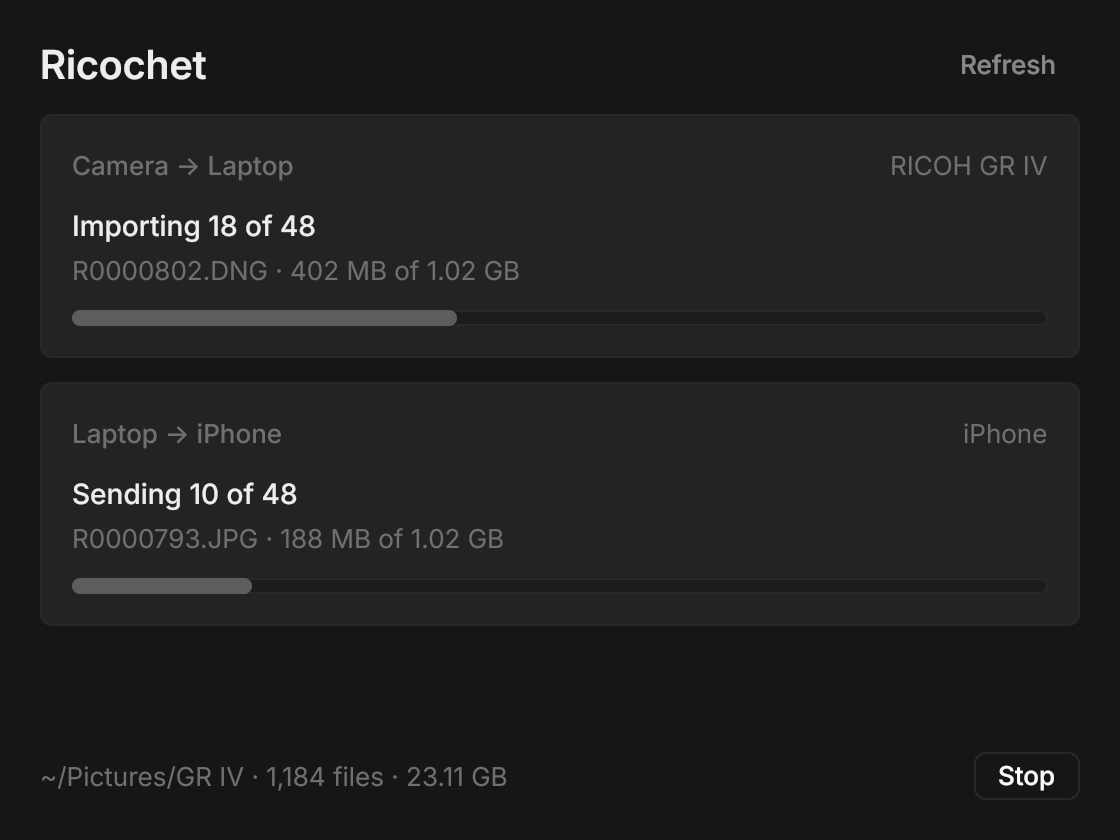
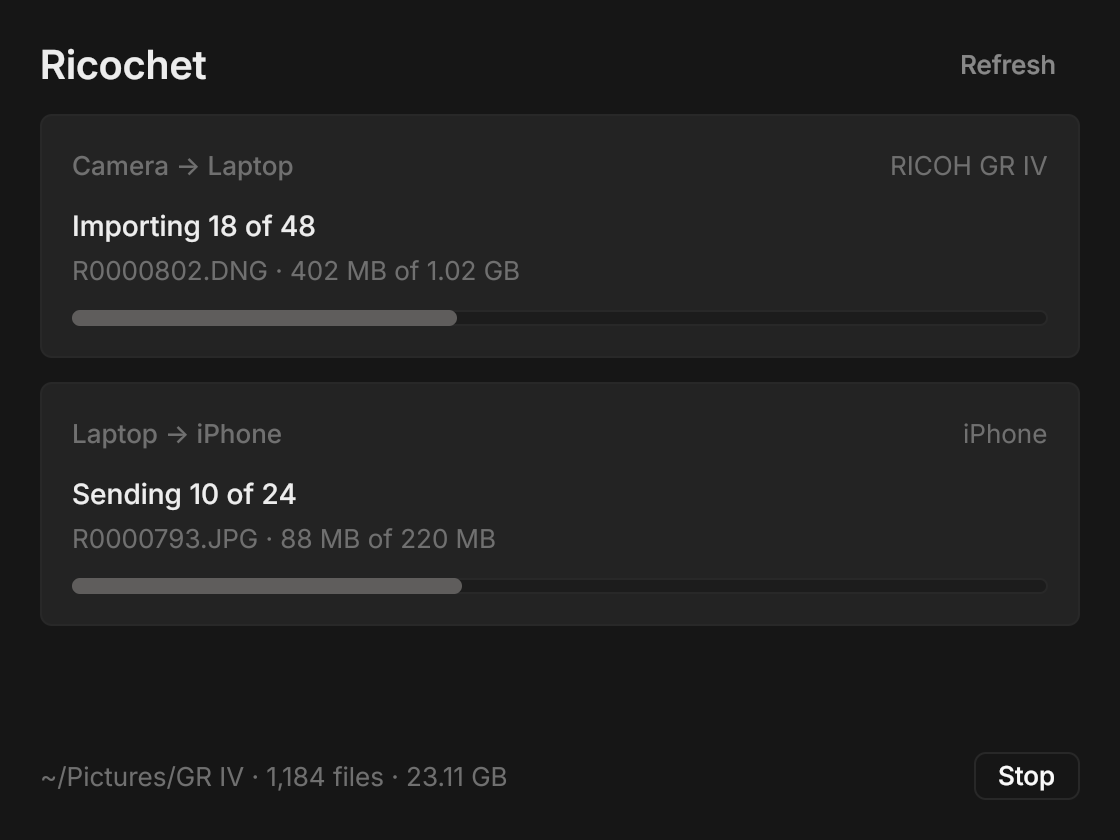
Keep RAW files off the phone
Syncs sent every RAW file to the phone, about 32 MB each against 10
for a JPEG, and they filled it up. On the phone the JPEGs are saved
to Photos and the RAW files mostly sit unused; the few that are
wanted can go over with LocalSend.

The phone now gets JPEGs and videos only, and RAW files stay in the
library. RAW files already on the phone are left alone. A lane's
detail line lists only the kinds it holds, so the phone's no longer
reads "0 RAW".

Changed region(s): [[0.2188, 0.5571, 0.4688, 0.65], [0.2188, 0.681, 0.4062, 0.7119]]

diff --git a/crates/ricochet-core/src/sync.rs b/crates/ricochet-core/src/sync.rs
@@ -398,21 +398,21 @@ mod tests {
     #[test]
     fn the_camera_feeds_the_phone_in_one_run() {
         let w = World::new();
-        fs::create_dir_all(w.library.root().join("RAW")).unwrap();
-        fs::write(w.library.root().join("RAW/R0.DNG"), b"old").unwrap();
+        fs::create_dir_all(w.library.root().join("JPG")).unwrap();
+        fs::write(w.library.root().join("JPG/R0.JPG"), b"old").unwrap();
 
-        let (plan, outcome) = w.sync(&[(10, "R1.DNG"), (11, "R1.JPG")], Restore::default());
+        let (plan, outcome) = w.sync(&[(10, "R1.DNG"), (11, "R1.JPG"), (12, "R2.JPG")], Restore::default());
         assert_eq!(plan.phone.as_ref().map(|p| (p.backlog.len(), p.incoming.len())), Some((1, 2)));
-        assert_eq!(outcome.camera.unwrap().unwrap(), 2);
+        assert_eq!(outcome.camera.unwrap().unwrap(), 3);
         assert_eq!(outcome.phone.unwrap().unwrap(), 3);
-        assert_eq!(w.on_phone(), ["JPG/R1.JPG", "RAW/R0.DNG", "RAW/R1.DNG"]);
+        assert_eq!(w.on_phone(), ["JPG/R0.JPG", "JPG/R1.JPG", "JPG/R2.JPG"]);
     }
 
     #[test]
     fn a_failing_phone_leaves_the_import_running() {
         let mut w = World::new();
         w.phone.fail = true;
-        let (_, outcome) = w.sync(&[(10, "R1.DNG"), (11, "R2.DNG")], Restore::default());
+        let (_, outcome) = w.sync(&[(10, "R1.JPG"), (11, "R2.JPG")], Restore::default());
         assert!(matches!(outcome.phone, Some(Err(Error::Phone(_)))));
         assert_eq!(outcome.camera.unwrap().unwrap(), 2);
         assert_eq!(w.library.scan().unwrap().len(), 2);
@@ -421,10 +421,10 @@ mod tests {
     #[test]
     fn deleted_photos_stay_deleted_until_restored() {
         let w = World::new();
-        let camera = [(10, "R1.DNG"), (11, "R2.DNG")];
+        let camera = [(10, "R1.JPG"), (11, "R2.JPG")];
         w.sync(&camera, Restore::default());
-        fs::remove_file(w.library.root().join("RAW/R1.DNG")).unwrap();
-        w.phone.files.lock().unwrap().remove("RAW/R2.DNG");
+        fs::remove_file(w.library.root().join("JPG/R1.JPG")).unwrap();
+        w.phone.files.lock().unwrap().remove("JPG/R2.JPG");
 
         let (plan, _) = w.sync(&camera, Restore::default());
         let deleted = |p: &Plan| {
@@ -432,13 +432,13 @@ mod tests {
             let phone = p.phone.as_ref().unwrap().deleted.iter().map(|f| f.name.clone());
             (camera.collect::<Vec<_>>(), phone.collect::<Vec<_>>())
         };
-        assert_eq!(deleted(&plan), (vec!["R1.DNG".to_owned()], vec!["R2.DNG".to_owned()]));
+        assert_eq!(deleted(&plan), (vec!["R1.JPG".to_owned()], vec!["R2.JPG".to_owned()]));
         assert_eq!(w.library.scan().unwrap().len(), 1);
 
         let (plan, _) = w.sync(&camera, Restore { camera: true, phone: true });
         assert_eq!(deleted(&plan), (vec![], vec![]));
         assert_eq!(w.library.scan().unwrap().len(), 2);
-        assert_eq!(w.on_phone(), ["RAW/R1.DNG", "RAW/R2.DNG"]);
+        assert_eq!(w.on_phone(), ["JPG/R1.JPG", "JPG/R2.JPG"]);
     }
 
     #[test]

diff --git a/crates/ricochet-core/src/plan.rs b/crates/ricochet-core/src/plan.rs
@@ -92,7 +92,8 @@ fn phone_needs(photo: &Photo, phone: &HashMap<String, u64>, sent: &HashMap<Strin
     }
 }
 
-/// `phone` maps paths on the phone to sizes; `incoming` is what the camera will import.
+/// `phone` maps paths on the phone to sizes; `incoming` is what the camera will import. Only kinds
+/// that [go to the phone](Kind::goes_to_phone) are planned.
 pub fn phone(
     library: &[Photo],
     incoming: &[Photo],
@@ -101,7 +102,8 @@ pub fn phone(
     restore: bool,
 ) -> PhonePlan {
     let mut plan = PhonePlan::default();
-    for (photo, from_camera) in library.iter().map(|p| (p, false)).chain(incoming.iter().map(|p| (p, true))) {
+    let all = library.iter().map(|p| (p, false)).chain(incoming.iter().map(|p| (p, true)));
+    for (photo, from_camera) in all.filter(|(p, _)| p.kind.goes_to_phone()) {
         let list = match phone_needs(photo, phone, sent) {
             Need::Has => continue,
             Need::Deleted if !restore => &mut plan.deleted,
@@ -155,11 +157,18 @@ mod tests {
     }
 
     #[test]
+    fn raw_files_stay_off_the_phone() {
+        let library = [photo("R1.DNG", 10), photo("R1.JPG", 5), photo("R2.MOV", 50)];
+        let plan = phone(&library, &[photo("R3.DNG", 10)], &HashMap::new(), &HashMap::new(), true);
+        assert_eq!((plan.backlog, plan.incoming), (vec![library[1].clone(), library[2].clone()], vec![]));
+    }
+
+    #[test]
     fn the_phone_gets_short_copies_again_but_not_deleted_ones() {
-        let library = [photo("R1.DNG", 10), photo("R2.DNG", 10), photo("R3.DNG", 10)];
-        let incoming = [photo("R4.DNG", 10)];
-        let on_phone = HashMap::from([("RAW/R1.DNG".to_owned(), 10), ("RAW/R2.DNG".to_owned(), 4)]);
-        let sent = HashMap::from([("RAW/R1.DNG".to_owned(), 10), ("RAW/R3.DNG".to_owned(), 10)]);
+        let library = [photo("R1.JPG", 10), photo("R2.JPG", 10), photo("R3.JPG", 10)];
+        let incoming = [photo("R4.JPG", 10)];
+        let on_phone = HashMap::from([("JPG/R1.JPG".to_owned(), 10), ("JPG/R2.JPG".to_owned(), 4)]);
+        let sent = HashMap::from([("JPG/R1.JPG".to_owned(), 10), ("JPG/R3.JPG".to_owned(), 10)]);
         let plan = phone(&library, &incoming, &on_phone, &sent, false);
         assert_eq!(plan.backlog, [library[1].clone()]);
         assert_eq!(plan.incoming, incoming);

diff --git a/crates/ricochet/src/main.rs b/crates/ricochet/src/main.rs
@@ -119,7 +119,7 @@ const SCENES: &[Scene] = &[
     ("ready", |s| {
         s.library = Some((1184, 23_110_000_000));
         s.camera.leg = ready("RICOH GR IV", 48, 1_020_000_000, 24, 24, 0);
-        s.phone.leg = ready("👻", 48, 1_020_000_000, 24, 24, 0);
+        s.phone.leg = ready("👻", 24, 220_000_000, 0, 24, 0);
     }),
     ("importing", |s| {
         s.library = Some((1184, 23_110_000_000));
@@ -129,8 +129,8 @@ const SCENES: &[Scene] = &[
             done: 402_000_000, bytes: 1_020_000_000,
         };
         s.phone.leg = Leg::Running {
-            device: "👻".into(), index: 9, files: 48, name: "R0000793.JPG".into(),
-            done: 188_000_000, bytes: 1_020_000_000,
+            device: "👻".into(), index: 9, files: 24, name: "R0000793.JPG".into(),
+            done: 88_000_000, bytes: 220_000_000,
         };
     }),
     ("checking", |s| {

diff --git a/crates/ricochet/src/view.rs b/crates/ricochet/src/view.rs
@@ -79,7 +79,10 @@ fn lane(k: &Kit, side: Side, lane: &Lane, busy: bool) -> El {
                 Side::Camera => format!("{} new {}", thousands(*files), plural(*files)),
                 Side::Phone => format!("{} {} to send", thousands(*files), plural(*files)),
             },
-            format!("{} · {raw} RAW, {jpg} JPG", size(*bytes)),
+            [(*raw, "RAW"), (*jpg, "JPG")]
+                .iter()
+                .filter(|(n, _)| *n > 0)
+                .fold(size(*bytes), |detail, (n, kind)| format!("{detail} · {} {kind}", thousands(*n))),
         ),
         Leg::Running { index, files, name, done, bytes, .. } => (
             format!("{} {} of {}", if side == Side::Camera { "Importing" } else { "Sending" }, index + 1, files),

diff --git a/crates/ricochet-core/src/library.rs b/crates/ricochet-core/src/library.rs
@@ -29,6 +29,12 @@ impl Kind {
         }
     }
 
+    /// Whether syncs send this kind to the phone. RAW files are large (about 32 MB against 10 for
+    /// a JPEG) and stay on the laptop; the few wanted on the phone go there by hand.
+    pub fn goes_to_phone(self) -> bool {
+        self != Kind::Raw
+    }
+
     pub fn folder(self) -> &'static str {
         match self {
             Kind::Raw => "RAW",

diff --git a/README.md b/README.md
@@ -7,9 +7,10 @@ iPhone, with one Sync button. Built with [Rune](https://github.com/anomalyco/run
 
 - **Camera → Laptop**: lists the camera over PTP on USB and downloads what the library
   doesn't have yet. It only reads from the camera.
-- **Laptop → iPhone**: sends what the phone doesn't have yet into an app's Documents folder over
-  USB (usbmuxd and AFC, no mounting). It defaults to LocalSend's, which shows in Files under
-  On My iPhone → LocalSend.
+- **Laptop → iPhone**: sends the JPEGs and videos the phone doesn't have yet into an app's
+  Documents folder over USB (usbmuxd and AFC, no mounting). It defaults to LocalSend's, which
+  shows in Files under On My iPhone → LocalSend. RAW files stay on the laptop; send the ones you
+  want with LocalSend itself.
 
 Sync works with whatever is plugged in. With both, each photo goes on to the phone as soon as
 it lands on the laptop, so the slower device sets the pace. A photo you delete from the library
@@ -23,7 +24,7 @@ check reads the whole camera again, and deleted photos are offered once more.
 Both sides use the same flat layout, so selecting everything on the phone is one tap:
 
 ```
-~/Pictures/GR IV/RAW/R0000185.DNG      LocalSend/GR IV/RAW/R0000185.DNG
+~/Pictures/GR IV/RAW/R0000185.DNG
 ~/Pictures/GR IV/JPG/R0000185.JPG      LocalSend/GR IV/JPG/R0000185.JPG
 ```
 
